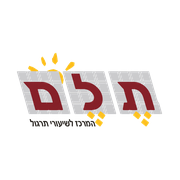
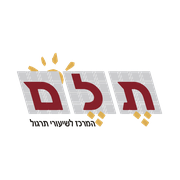
5.19.142: התראות כמו תיבת דואר (לא טופלו / טופלו בעמודים / סוג); לוגו זהב
Claude-Session: https://claude.ai/code/session_0193ScbthigSJSQgc4pY72XC

diff --git a/index.html b/index.html
@@ -6,9 +6,9 @@
 <script>/* אייפון: בלי הגדלה אוטומטית כשנוגעים בשדה (אפשר עדיין להגדיל עם שתי אצבעות) */ if (/iPhone|iPad|iPod/.test(navigator.userAgent)) document.querySelector('meta[name=viewport]').setAttribute("content", "width=device-width, initial-scale=1.0, maximum-scale=1.0");</script>
 <meta name="robots" content="noindex, nofollow">
 <title>תלם - מערכת ניהול</title>
-<meta name="app-version" content="5.19.141">
-<link rel="icon" type="image/png" href="favicon.png?v=2">
-<link rel="apple-touch-icon" href="apple-touch-icon.png?v=2">
+<meta name="app-version" content="5.19.142">
+<link rel="icon" type="image/png" href="favicon.png?v=3">
+<link rel="apple-touch-icon" href="apple-touch-icon.png?v=3">
 <link rel="preconnect" href="https://fonts.googleapis.com">
 <link href="https://fonts.googleapis.com/css2?family=Heebo:wght@500;700;800;900&family=Assistant:wght@400;600;700&display=swap" rel="stylesheet">
 <style>
@@ -1930,6 +1930,7 @@ tr.dx-row > td{ background:#FBF7F2; padding:0 12px 8px !important; border:2px so
 .ib-seg{ display:inline-flex; gap:4px; background:var(--paper); border:1px solid var(--border); border-radius:999px; padding:3px; } .ib-seg button{ border:0; background:none; font:inherit; font-size:13.5px; font-weight:700; padding:5px 12px; border-radius:999px; cursor:pointer; color:var(--ink-soft); } .ib-seg button[aria-pressed="true"]{ background:var(--accent); color:#fff; }
 .ib-list{ background:var(--paper); border:1px solid var(--border); border-radius:14px; overflow:hidden; }
 .ib-row{ display:grid; grid-template-columns:28px minmax(110px, 170px) 120px minmax(0, 1fr) auto 92px auto; gap:4px 12px; align-items:center; padding:7px 12px; border-top:1px solid var(--border); border-inline-start:3px solid transparent; font-size:14px; }
+#ibKind{ width:auto; min-width:150px; font-size:13.5px; padding:5px 10px; } .ib-more{ text-align:center; padding:10px; }
 .ib-row:first-child{ border-top:0; } .ib-row.new{ border-inline-start-color:var(--accent); } .ib-row.warn{ border-inline-start-color:#C9554F; } .ib-row.seen, .ib-row.handled{ color:var(--ink-soft); }
 .ib-ic{ font-size:16px; text-align:center; } .ib-k{ font-weight:700; white-space:nowrap; font-size:13px; color:var(--ink-soft); } .ib-n{ font-weight:800; white-space:nowrap; overflow:hidden; text-overflow:ellipsis; }
 .ib-w{ color:var(--ink-soft); font-size:13px; white-space:nowrap; overflow:hidden; text-overflow:ellipsis; } .ib-tags{ display:flex; gap:4px; white-space:nowrap; }
@@ -2333,7 +2334,7 @@ tr.dx-row > td{ background:#FBF7F2; padding:0 12px 8px !important; border:2px so
 <!-- כניסה -->
 <div id="loginView" class="login" hidden>
   <div class="card">
-    <img class="login-logo" src="logo.png?v=2" alt="תלם" width="170" height="90">
+    <img class="login-logo" src="logo.png?v=3" alt="תלם" width="170" height="90">
     <h1>המרכז לשיעורי תרגול<span class="login-sub">מערכת ניהול</span></h1>
     <div class="muted">כניסת צוות</div>
     <form id="loginForm" method="post" action="#">
@@ -2350,7 +2351,7 @@ tr.dx-row > td{ background:#FBF7F2; padding:0 12px 8px !important; border:2px so
 
 <div id="appView" class="app" hidden>
   <aside class="side">
-    <div class="brand" id="brandHome" role="button" tabindex="0" title="למסך הבית"><img src="logo.png?v=2" class="brand-logo" alt="תלם"><span class="brand-t">תלם - המרכז לשיעורי תרגול<small>מערכת ניהול</small></span></div>
+    <div class="brand" id="brandHome" role="button" tabindex="0" title="למסך הבית"><img src="logo.png?v=3" class="brand-logo" alt="תלם"><span class="brand-t">תלם - המרכז לשיעורי תרגול<small>מערכת ניהול</small></span></div>
     <button type="button" class="nav-toggle" id="navToggle" aria-label="תפריט" aria-expanded="false">☰ <span id="navCur"></span></button>
     <nav class="nav" aria-label="תפריט">
       <button type="button" data-view="leads" data-ic="👥" data-sl="תלמידים">תלמידים</button>
@@ -2697,7 +2698,7 @@ tr.dx-row > td{ background:#FBF7F2; padding:0 12px 8px !important; border:2px so
 
     <!-- ===== מסך הבית ===== -->
     <section id="view-home" hidden>
-      <div class="home-hero"><img src="logo.png?v=2" alt="תלם" class="home-logo"><div><div class="home-org">המרכז לשיעורי תרגול · מערכת ניהול</div><h1 id="homeHello">שלום</h1></div></div>
+      <div class="home-hero"><img src="logo.png?v=3" alt="תלם" class="home-logo"><div><div class="home-org">המרכז לשיעורי תרגול · מערכת ניהול</div><h1 id="homeHello">שלום</h1></div></div>
       <div class="home-tiles" id="homeTiles"></div>
       <p class="home-load" id="homeLoad" hidden>טוען נתונים…</p>
     </section>
@@ -2777,7 +2778,8 @@ tr.dx-row > td{ background:#FBF7F2; padding:0 12px 8px !important; border:2px so
       <!-- 5.19.69 (נועה): הסוג מתחת לכותרת, ולידו הסינון: הכל · חדשות · לא תואמות -->
       <div class="ib-bar"><div class="ib-filters">
         <div class="gseg" role="group" aria-label="סוג"><button type="button" data-ibt="forms">📥 מהטפסים <span id="ibTabN"></span></button><button type="button" data-ibt="iss">🐞 דיווחים על בעיות <span id="issTabN"></span></button></div>
-        <div class="ib-seg ib-f-forms" role="group" aria-label="סינון"><button type="button" data-ibf="all">הכל</button><button type="button" data-ibf="new">חדשות</button><button type="button" data-ibf="warn">⚠ לא תואמות</button></div>
+        <div class="ib-seg ib-f-forms" role="group" aria-label="סינון"><button type="button" data-ibf="open">לא טופלו</button><button type="button" data-ibf="new">חדשות</button><button type="button" data-ibf="warn">⚠ לא תואמות</button><button type="button" data-ibf="done">טופלו</button></div>
+        <select id="ibKind" class="ib-f-forms" aria-label="סוג התראה"><option value="">כל סוגי ההתראות</option></select>
         <div class="gseg ib-f-iss" role="group" aria-label="תצוגה" hidden><button type="button" data-iss="all" aria-pressed="false">הכול</button><button type="button" data-iss="open" aria-pressed="true">פתוחים</button></div></div>
         </div>
       <div id="ibForms">
@@ -6722,7 +6724,7 @@ async function callCount(){ if (ME.role === "instructor") return; try { const r 
 setInterval(() => { if (!document.hidden && typeof ME !== "undefined" && ME && ME.role && ME.role !== "instructor") callCount(); }, 5 * 60000);   // 5.19.42: המספר מתעדכן כל 5 דקות (למשל כשהורה שילם בקישור)
 // ===== 5.19.56: תיבת הודעות מהטפסים (קובץ 71) =====
 // כל טופס שנשלח (הרשמה, מרתון, התעניינות, בקשת שיבוץ, ביטול חתום, תשלום אישי) = שורה. פרטים שלא תואמים (issues) - משיחת התשלומים
-const IB = { rows: null, f: "new", ok: true, lastMax: Number(store("telem_ib_max") || 0), names: {}, mars: {} };
+const IB = { rows: null, f: "open", k: "", done: [], doneEnd: false, ok: true, lastMax: Number(store("telem_ib_max") || 0), names: {}, mars: {} };
 const IB_KIND = { registration: ["📝", "הרשמה לתרגולים"], marathon: ["🏁", "הרשמה למרתון"], interest: ["💬", "התעניינות"], scheduling: ["🗓", "בקשת שיבוץ"], cancel: ["✍", "ביטול חתום"], pay_link: ["💳", "תשלום אישי"], payment: ["💰", "תשלום"], group_diff: ["🔀", "מול הקבוצה הקבועה"], contact: ["✉", "פנייה מהאתר"], portal_code: ["🔑", "תלם שלי – ביקש/ה קוד"], duplicate: ["🔀", "כפילות אפשרית"], unassigned: ["🧩", "לא משובץ/ת"] };   // 5.19.123 (קובץ 106)   // 5.19.117 (קובץ 101): כפילויות מקובץ 89   // 5.19.97 (את-09, קובץ 85)   // 5.19.88 (קובץ 81): בדיקה יומית בשרת   // 5.19.58: payment - אירועי תשלום (icredit-18)
 const IB_FLAG = { plan_withdrawn: ["t-warn", "לבטל בריווחית"], phone_pending: ["t-warn", "תשלום טלפוני ממתין"], system_issue: ["t-warn", "תקלה טכנית"], added: ["t-new", "נוסף/ה לקבוצה"],   // 5.19.127 (תש-16, icredit-24) removed: ["t-warn", "הוסר/ה מהקבוצה"], absent: ["t-old", "חסר/ה בקבוצה הקבועה"], new_student: ["t-new", "חדש/ה"], existing_student: ["t-old", "קיים/ת אצלנו"], parent2_added: ["t-p2", "הורה 2 נוסף"], from_history: ["t-old", "מההיסטוריה"], reactivated: ["t-new", "כרטיס הופעל מחדש"],   /* 5.19.97 (קובץ 86) */
   possible_duplicate: ["t-warn", "כפילות אפשרית"], missed_charge: ["t-warn", "חיוב לא התקבל"], alert: ["t-warn", "דורש טיפול"], plan_paused: ["t-old", "הוראת קבע הושהתה"],
@@ -6904,10 +6906,22 @@ async function ibGdAct(b, kind){
     r.status = "handled"; r.note = note; toast(note); loadLeadsDelta().then(() => renderInbox(false)).catch(() => renderInbox(false));
   } catch(e) { b.disabled = false; toast("לא נשמר: " + e.message); }
 }
+async function ibLoadDone(reset){
+  if (reset) { IB.done = []; IB.doneEnd = false; }
+  try { const r = await get("form_inbox", "select=*&status=eq.handled" + (IB.k ? "&kind=eq." + encodeURIComponent(IB.k) : "") + "&order=id.desc&limit=100&offset=" + IB.done.length);
+    IB.done = IB.done.concat(r); if (r.length < 100) IB.doneEnd = true;
+    if (IB.rows) { const ids = new Set(IB.rows.map(x => x.id)); IB.rows = IB.rows.concat(r.filter(x => !ids.has(x.id))); }
+  } catch(e) { IB.doneEnd = true; }
+}
 async function renderInbox(reload){
   const box = $("ibList");
   document.querySelectorAll("[data-ibf]").forEach(b => b.setAttribute("aria-pressed", String(b.dataset.ibf === IB.f)));
-  if (reload || !IB.rows) { try { IB.rows = await get("form_inbox", "select=*&order=id.desc&limit=300"); } catch(e) { box.innerHTML = `<div class="err">${IB.ok ? "לא נטען: " + esc(e.message) : "כדי להשתמש בתיבת ההודעות צריך להריץ את קובץ 71."}</div>`; return; } await ibNames(IB.rows);
+  // 5.19.142 (נועה 25.10): כמו תיבת דואר – נטען רק מה שלא טופל (+ ההיסטוריה של "מול הקבוצה" לאותם ילדים); "טופלו" – בעמודים, לפי סוג
+  if (IB.f === "done" && (reload || !IB.done.length) && !IB.doneEnd) await ibLoadDone(true);
+  if (reload || !IB.rows) { try { const open = await get("form_inbox", "select=*&status=neq.handled&order=id.desc&limit=1000");
+      const gk = [...new Set(open.filter(r => r.kind === "group_diff" && r.student_id).map(r => r.student_id))];
+      const extra = gk.length ? await get("form_inbox", "select=*&kind=eq.group_diff&status=eq.handled&student_id=in.(" + gk.join(",") + ")&order=id.desc&limit=500").catch(() => []) : [];
+      const seen = new Set(); IB.rows = open.concat(extra, IB.done).filter(r => !seen.has(r.id) && seen.add(r.id)).sort((a, b) => b.id - a.id); } catch(e) { box.innerHTML = `<div class="err">${IB.ok ? "לא נטען: " + esc(e.message) : "כדי להשתמש בתיבת ההודעות צריך להריץ את קובץ 71."}</div>`; return; } await ibNames(IB.rows);
     IB.gdAtt = {};   // 5.19.90: נוכחות באותו שבוע לכרטיסי "מול הקבוצה הקבועה"
     const gd = IB.rows.filter(r => r.kind === "group_diff" && r.student_id && r.data && r.data.lesson_date);
     if (gd.length) { const ws = gd.map(r => gdWeek(r.data.lesson_date)), lo = ws.map(w => w[0]).sort()[0], hi = ws.map(w => w[1]).sort().pop();
@@ -6922,8 +6936,12 @@ async function renderInbox(reload){
       patch("form_inbox", "id=in.(" + fixed.map(r => r.id).join(",") + ")", { status: "handled", handled_at: now, handled_by: ME.full_name || "", note: "טופל – שובץ/ה" }).catch(() => {}); } }
   const nNew = ibCountKids(IB.rows.filter(r => r.status === "new")), nWarn = ibCountKids(IB.rows.filter(r => ibWarn(r) && r.status !== "handled")); ibPaint(nNew);
   document.querySelector('[data-ibf="new"]').textContent = "חדשות " + nNew; document.querySelector('[data-ibf="warn"]').textContent = "⚠ לא תואמות " + nWarn;
-  const rows = IB.rows.filter(r => IB.f === "all" ? true : IB.f === "warn" ? ibWarn(r) && r.status !== "handled" : r.status === "new");
-  if (!rows.length) { box.innerHTML = `<div class="empty-state">${IB.f === "new" ? "אין הודעות חדשות." : "אין הודעות."}</div>`; return; }
+  { const ko = $("ibKind"); if (ko && ko.options.length <= 1) ko.innerHTML = `<option value="">כל סוגי ההתראות</option>` + Object.entries(IB_KIND).map(([k, v]) => `<option value="${k}">${v[0]} ${esc(v[1])}</option>`).join(""); if (ko) ko.value = IB.k; }
+  const nOpen = ibCountKids(IB.rows.filter(r => r.status !== "handled")); document.querySelector('[data-ibf="open"]').textContent = "לא טופלו " + nOpen;
+  const kOk = (r) => !IB.k || r.kind === IB.k;
+  const rows = IB.f === "done" ? IB.done.filter(kOk) : IB.rows.filter(r => kOk(r) && (IB.f === "warn" ? ibWarn(r) && r.status !== "handled" : IB.f === "new" ? r.status === "new" : r.status !== "handled"));
+  const more = IB.f === "done" && !IB.doneEnd ? `<div class="ib-more"><button type="button" class="btn small" id="ibMore">טעינת עוד</button></div>` : "";
+  if (!rows.length) { box.innerHTML = `<div class="empty-state">${IB.f === "new" ? "אין הודעות חדשות." : IB.f === "done" ? "אין התראות שטופלו." : "אין התראות שמחכות לטיפול 🎉"}</div>` + more; if ($("ibMore")) $("ibMore").onclick = async () => { await ibLoadDone(false); renderInbox(false); }; return; }
   const when = (iso) => { const d = new Date(iso), t = todayIL(), dd = d.toLocaleDateString("en-CA", { timeZone: "Asia/Jerusalem" }), hh = d.toLocaleTimeString("he-IL", { timeZone: "Asia/Jerusalem", hour: "2-digit", minute: "2-digit" });
     return (dd === t ? "היום" : dd === addDays(t, -1) ? "אתמול" : fmtDM(dd)) + " " + hh; };
   // 5.19.117 (נועה): "מול הקבוצה הקבועה" – סיכום אחד לכל ילד/ה (שנפתחו / שטופלו בנפרד)
@@ -6942,7 +6960,8 @@ async function renderInbox(reload){
       <span class="ib-time">${esc(when(r.created_at))}</span>
       <span class="ib-acts">${r.kind === "payment" && (r.flags || []).includes("plan_withdrawn") && r.student_id && r.status !== "handled" ? `<button type="button" class="btn small primary" data-ibsid="${r.student_id}" data-ibpay="1" title="בכרטיס – 💳 תשלומים והוראות קבע (הביטול / ההשהיה עצמם – בריווחית)">לכרטיס – הוראת קבע</button>` : ""}${r.kind === "payment" && (r.flags || []).includes("phone_pending") && r.status !== "handled" && (r.data || {}).order_id ? `${r.student_id ? `<button type="button" class="btn small" data-ibsid="${r.student_id}">לכרטיס</button>` : ""}<button type="button" class="btn small primary" data-ibpaid="${r.id}">✔ שולם</button>` : ""}${r.kind === "unassigned" && r.student_id && r.status !== "handled" ? `<button type="button" class="btn small primary" data-ibsid="${r.student_id}">לכרטיס – שיבוץ</button>` : ""}${r.kind === "portal_code" && r.student_id && r.status !== "handled" && ME.role === "admin" ? `<button type="button" class="btn small primary" data-ibts="${r.id}">🔑 קוד חדש</button>` : ""}${ibPlan(r) ? (planMarked(ibPlan(r)) ? `<span class="muted ib-cx">✓ סומנה "בוטלה"</span>` : planMarkBtns(ibPlan(r), "ibcx").replace('data-ibcx="mark"', `data-ibcx="${esc(r.ref_id)}"`)) : ""}${r.student_id && ((r.flags || []).includes("possible_duplicate") || (r.issues || []).some(x => x.field === "duplicate")) && ME.role === "admin" ? `<button type="button" class="btn small primary" data-ibm="${r.student_id}">🔀 השוואה ואיחוד</button>` : ""}${r.status === "new" ? `<button type="button" class="btn small" data-ibs="seen:${r.id}">✓ נקרא</button>` : ""}${w && r.status !== "handled" ? `<button type="button" class="btn small" data-ibs="handled:${r.id}">✓ טופל</button>` : ""}${r.status === "handled" ? `<span class="muted">טופל${r.handled_by ? " · " + esc(r.handled_by) : ""}</span>` : r.status === "seen" && !w ? `<span class="muted">נקרא</span>` : ""}</span>
       ${iss.length ? `<div class="ib-diff" id="ibd${r.id}" hidden><table><tr><th>שדה</th><th>אצלנו</th><th>בטופס</th><th></th></tr>${iss.map((x, i) => `<tr><td class="f">${esc(x.label || x.field || "")}</td><td>${esc(x.ours ?? "")}</td><td class="nw">${esc(x.form ?? "")}${x.note ? ` <span class="muted">(${esc(x.note)})</span>` : ""}</td><td>${x.table && x.column && x.row_id && x.form != null && !x.applied ? `<button type="button" class="btn small" data-ibu="${r.id}:${i}">עדכון לפי הטופס</button>` : ""}</td></tr>`).join("")}</table></div>` : ""}
-    </div>`; }).join("") + `</div>`;
+    </div>`; }).join("") + `</div>` + more;
+  if ($("ibMore")) $("ibMore").onclick = async () => { $("ibMore").disabled = true; await ibLoadDone(false); renderInbox(false); };
   box.querySelectorAll("[data-ibl]").forEach(a => a.onclick = () => openLead(Number(a.dataset.ibl)));
   box.querySelectorAll("[data-ibsid]").forEach(a => a.onclick = () => { if (a.dataset.ibpay) LP_OPEN = true; ibOpenStudent(Number(a.dataset.ibsid), a); });
   // 5.19.127 (תש-16): תשלום טלפוני שממתין – "✔ שולם" ישר מההתראה (השרת סוגר את ההתראה לבד)
@@ -6985,6 +7004,7 @@ async function renderInbox(reload){
     catch(e) { b.disabled = false; toast("לא נשמר: " + e.message); } });
 }
 document.querySelectorAll("[data-ibf]").forEach(b => b.addEventListener("click", () => { IB.f = b.dataset.ibf; renderInbox(false); }));
+$("ibKind").addEventListener("change", () => { IB.k = $("ibKind").value; if (IB.f === "done") { IB.done = []; IB.doneEnd = false; } renderInbox(false); });   // 5.19.142
 $("ibAllSeen").addEventListener("click", async () => { const ids = (IB.rows || []).filter(r => r.status === "new").map(r => r.id); if (!ids.length) return;
   try { await patch("form_inbox", "id=in.(" + ids.join(",") + ")", { status: "seen" }); IB.rows.forEach(r => { if (r.status === "new") r.status = "seen"; }); renderInbox(false);
     toastUndo(`סומנו ${ids.length} כנקראו`, async () => { await patch("form_inbox", "id=in.(" + ids.join(",") + ")", { status: "new" }); IB.rows.forEach(r => { if (ids.includes(r.id)) r.status = "new"; }); renderInbox(false); }); } catch(e) { toast("לא נשמר: " + e.message); } });
